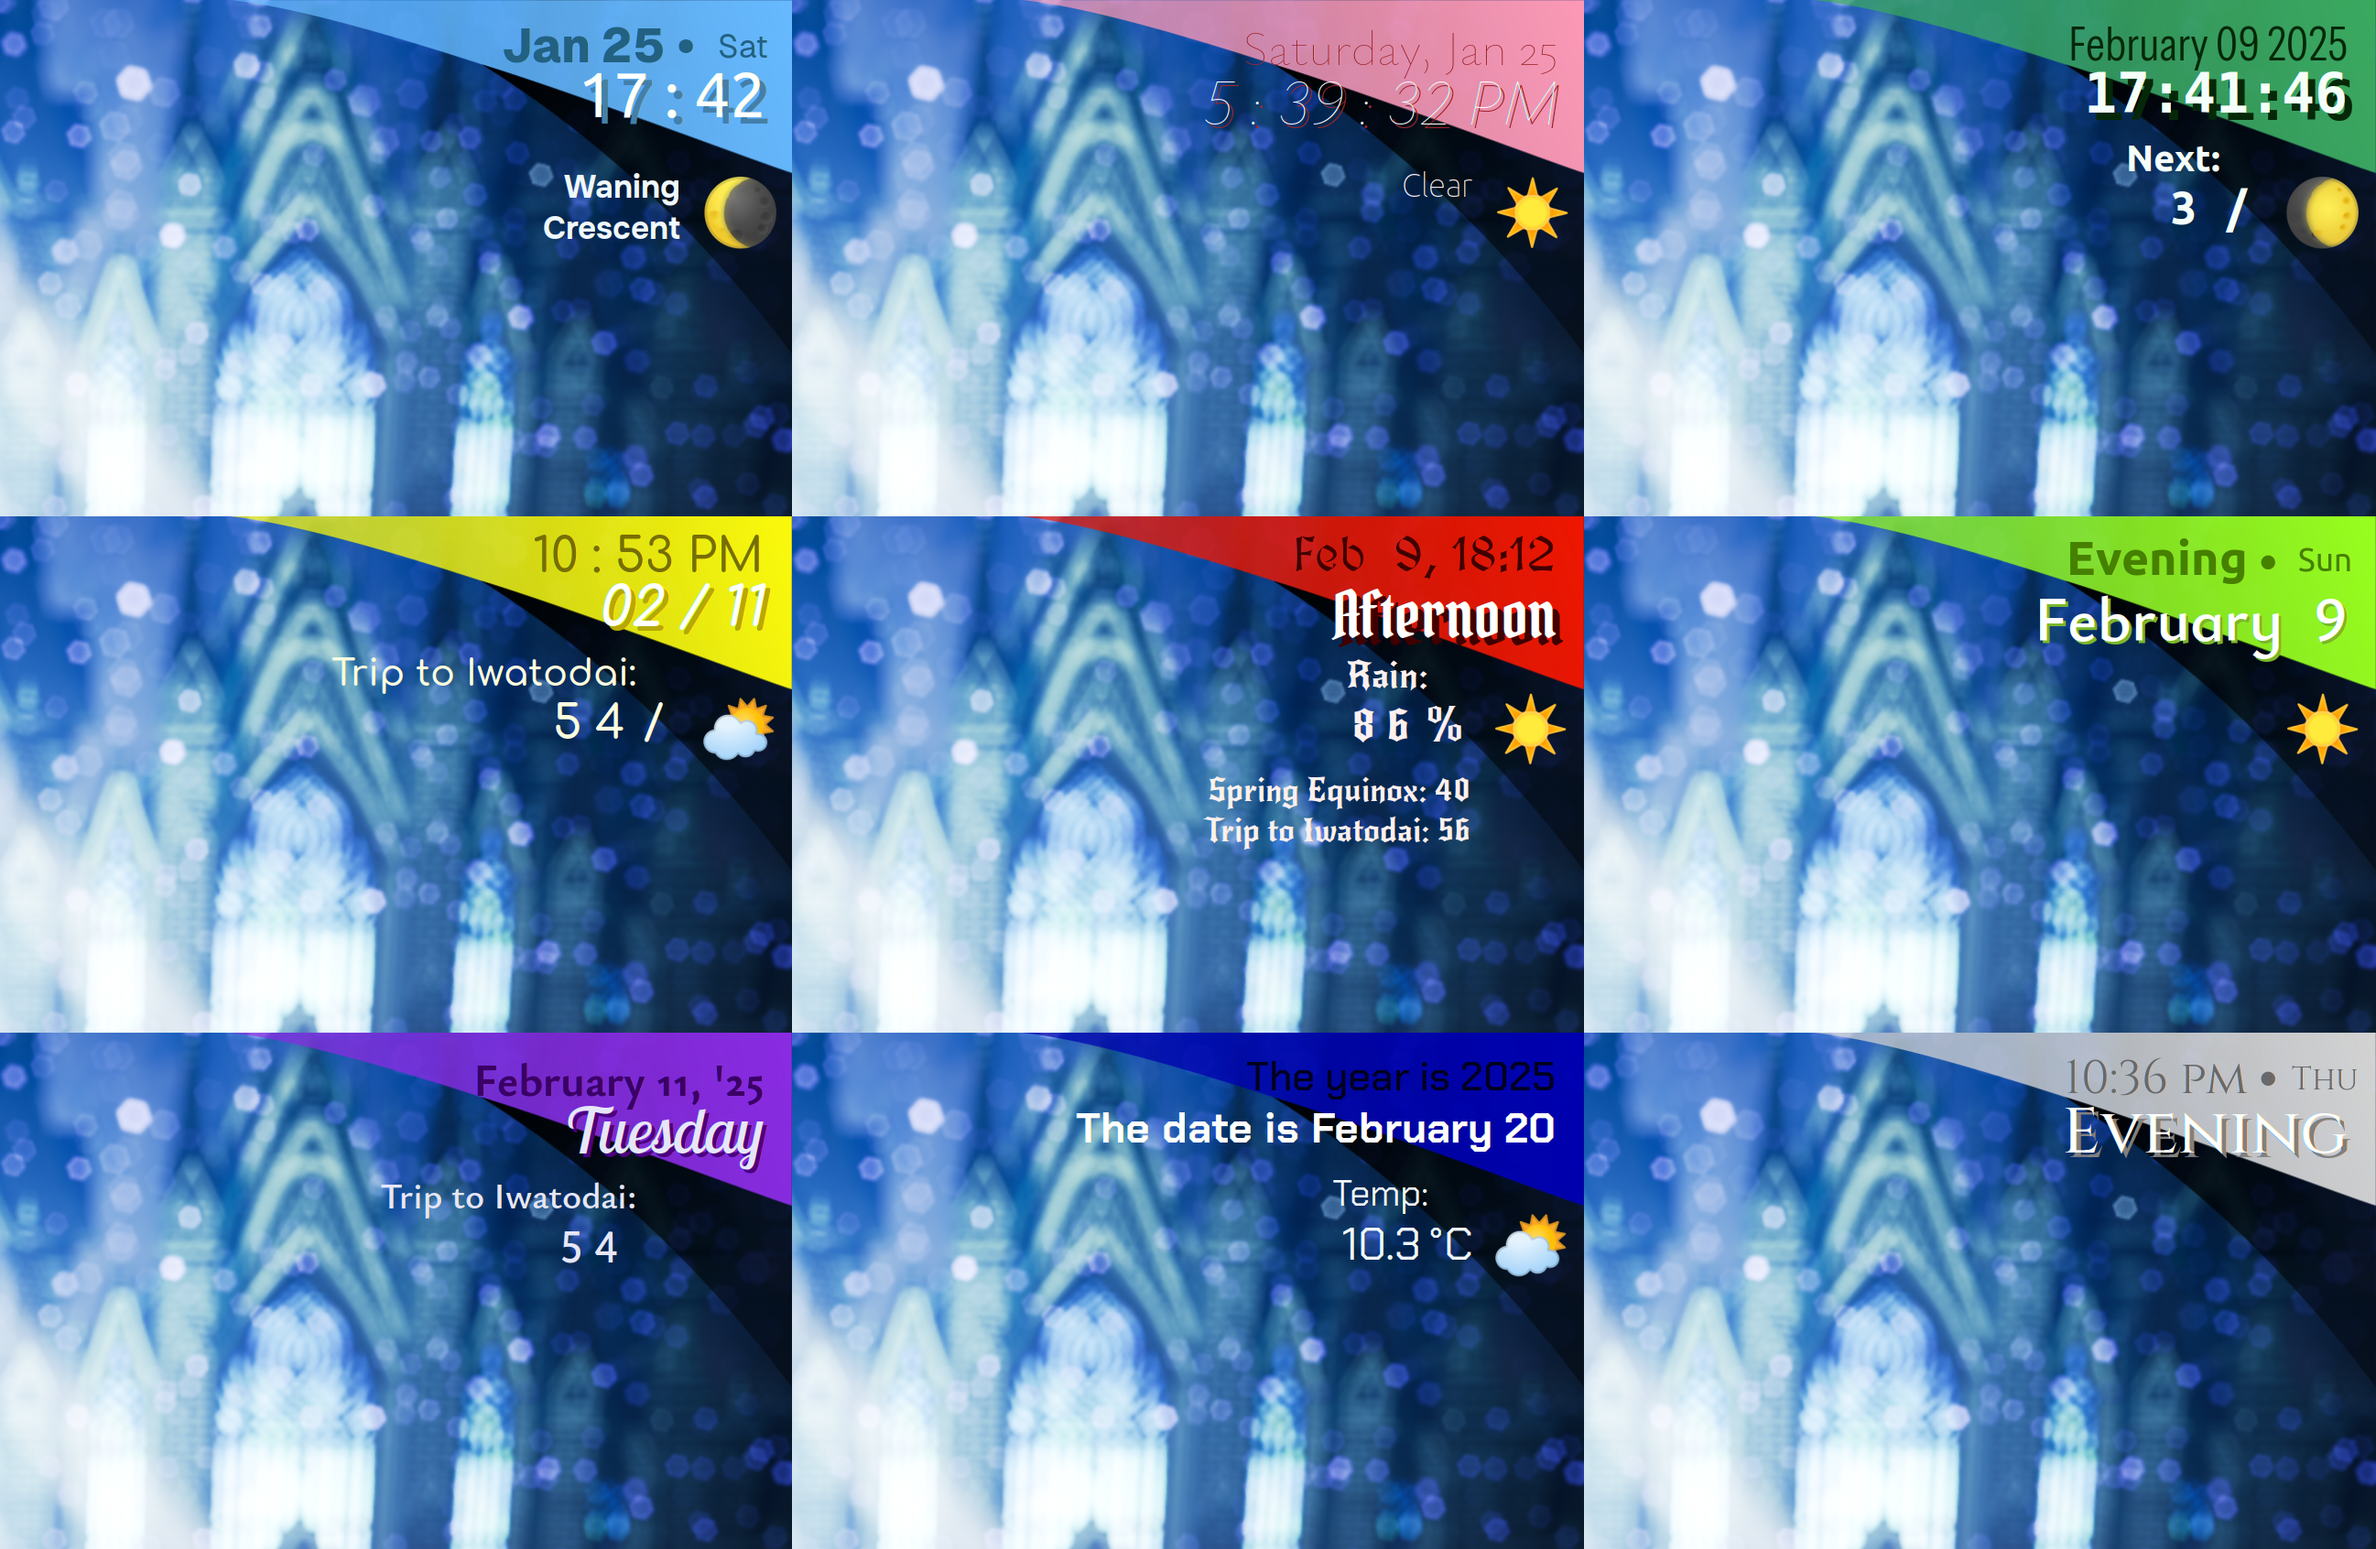
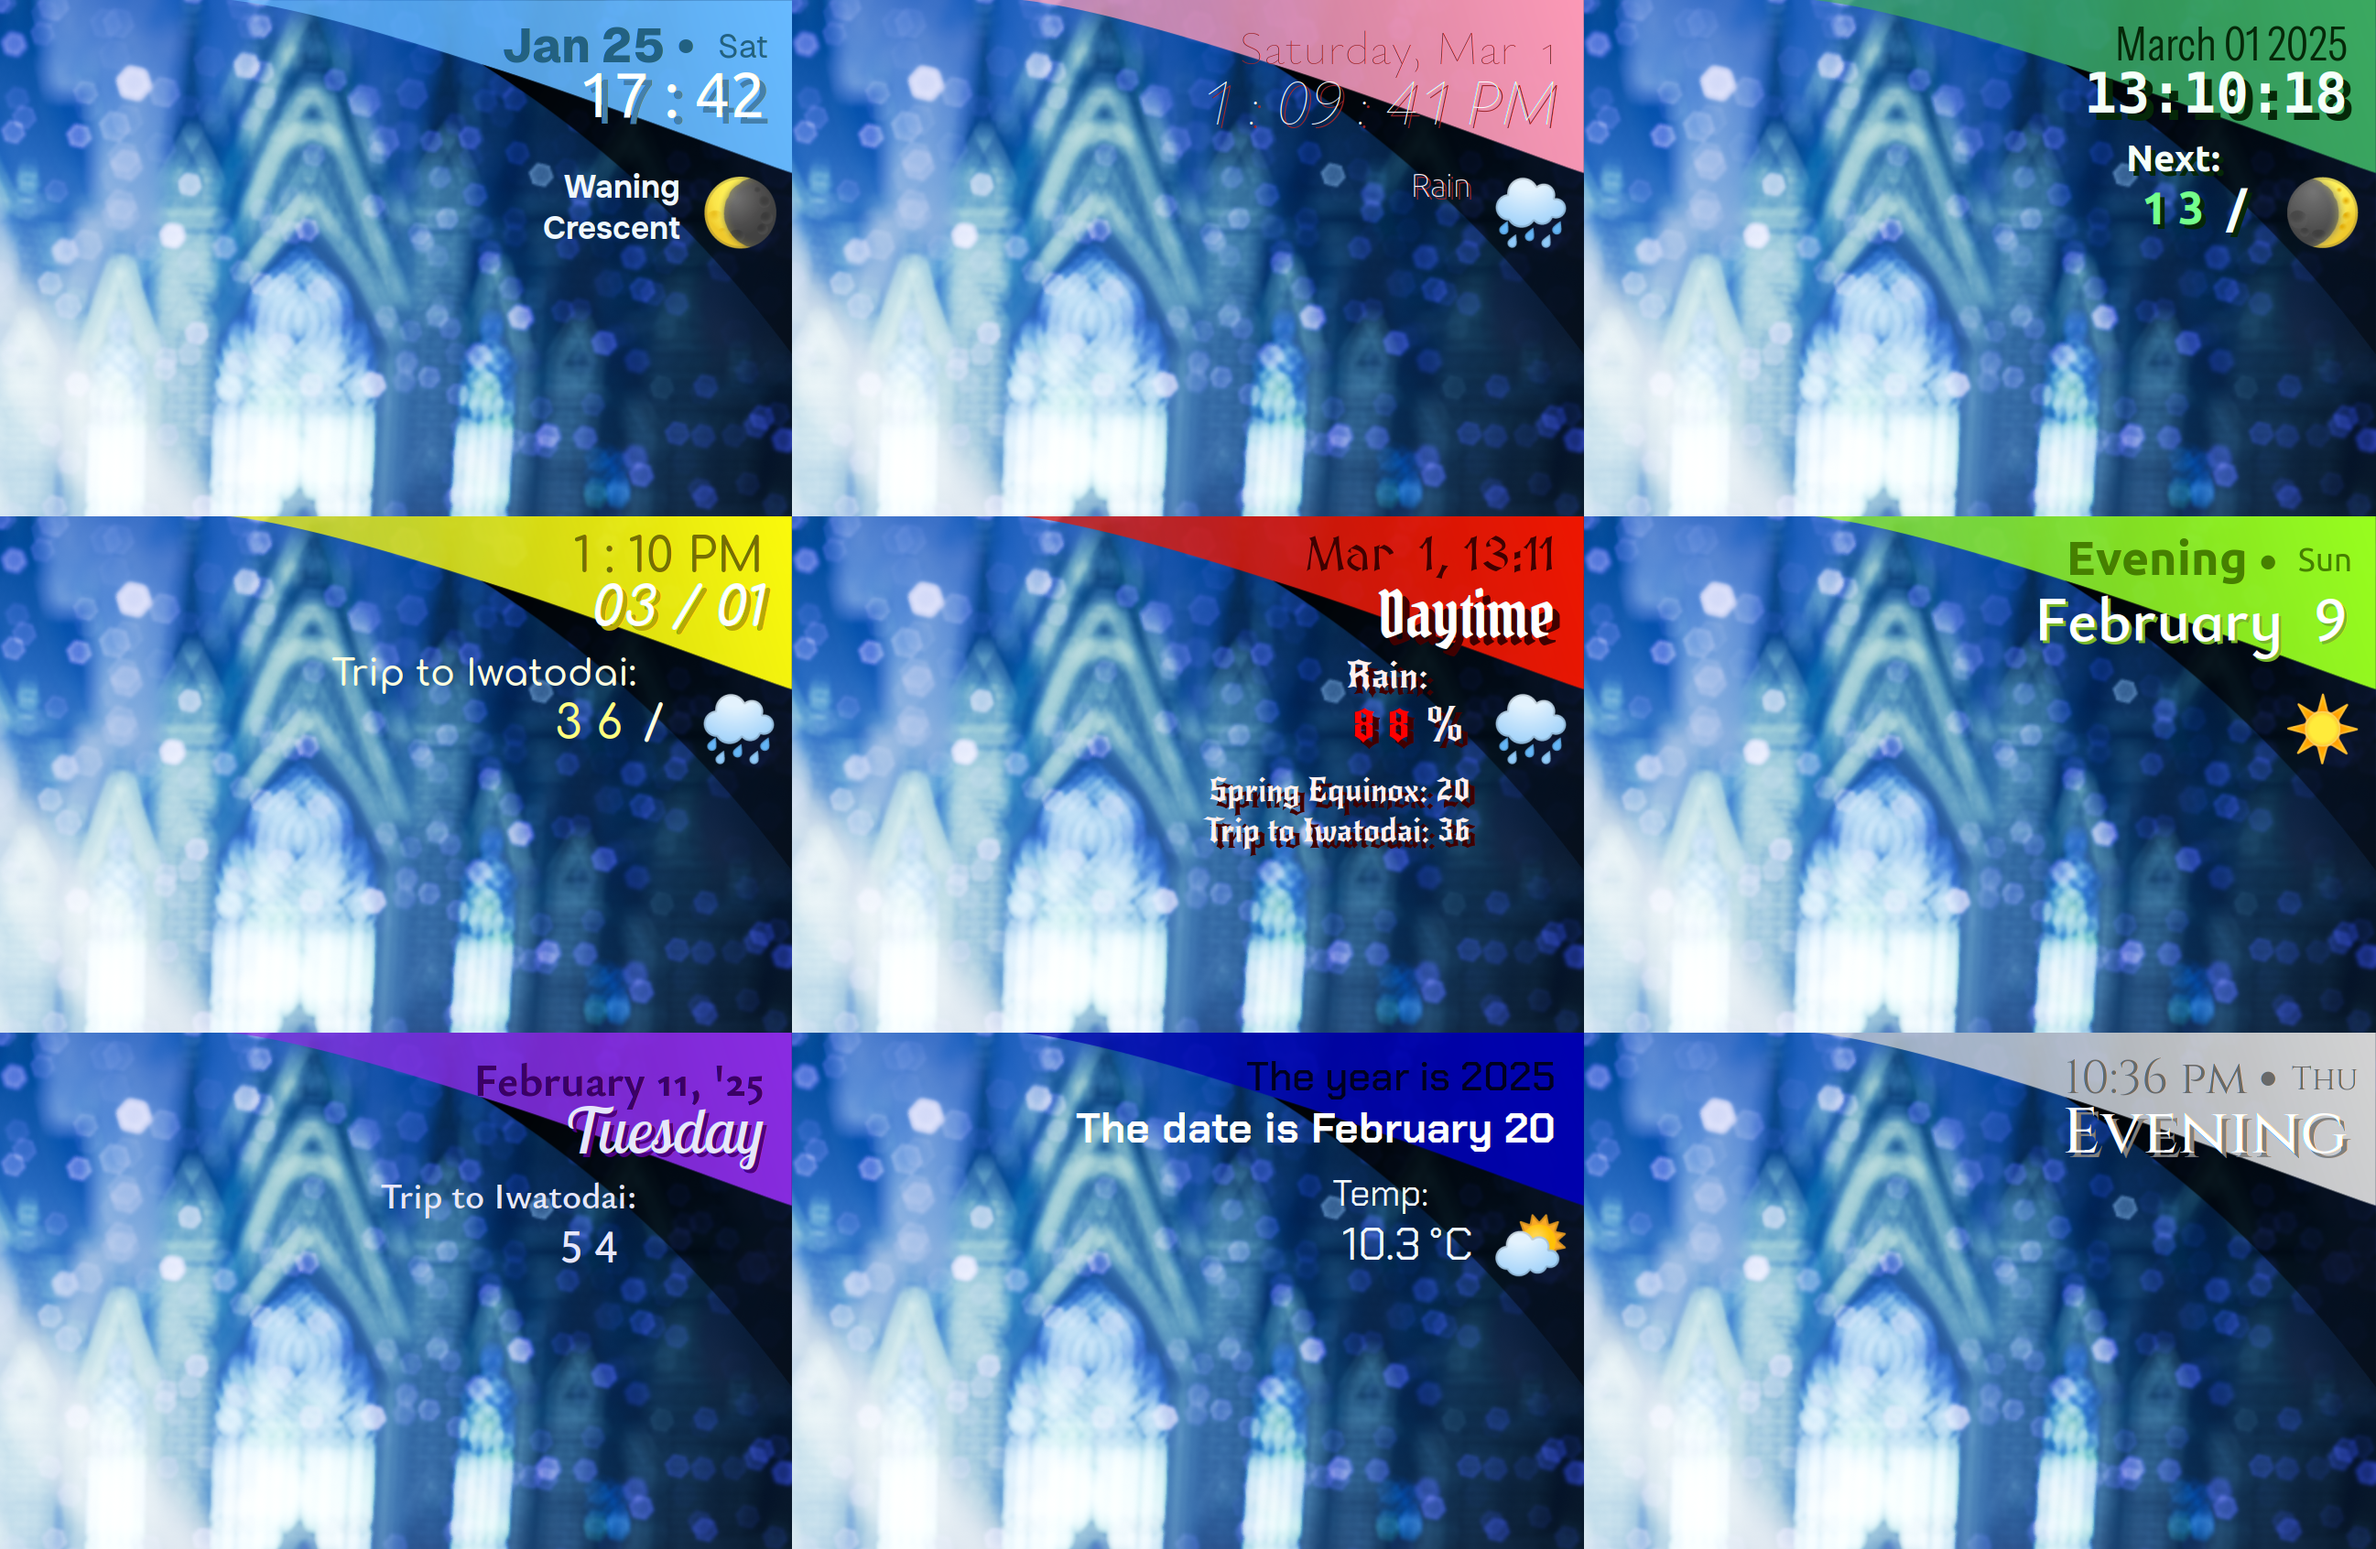
Update screenshot and READMEs

diff --git a/files/p3-clock@torchipeppo/desklet.js b/files/p3-clock@torchipeppo/desklet.js
@@ -39,12 +39,6 @@ else {
 }
 const _ = Translation._;
 
-/*
-    TODO
-    - Rifare un botto di screenshot :(
-    - Aggiornare POT e traduzione
-*/
-
 const SOURCE_DISABLED = 0
 const SOURCE_WEATHERAPI = 1
 const SOURCE_LOCAL_LUNAR_CALENDAR = 2

diff --git a/copy_release_to_desklet_fork_repo.py b/copy_release_to_desklet_fork_repo.py
@@ -51,10 +51,10 @@ def copy_code_dir(src : Path, dst : Path):
 # step 1: files here
 
 src_dir = Path(__file__).resolve().parent
-dst_dir = src_dir.parent / "cinnamon repo forks/cinnamon-spices-desklets" / release_uuid
+dst_dir = src_dir.parent.parent / "cinnamon repo forks/cinnamon-spices-desklets" / release_uuid
 dst_dir.mkdir(exist_ok=True)
 
-shutil.copy(src_dir/"README.md", dst_dir)
+copy_replacing_uuid(src_dir/"README.md", dst_dir/"README.md")
 shutil.copy(src_dir/"info.json", dst_dir)
 
 

diff --git a/files/p3-clock@torchipeppo/po/README.md b/files/p3-clock@torchipeppo/po/README.md
@@ -14,7 +14,7 @@ of the desklet.
 These are the eight standard moon phase names.
 
 ### "New", "Full", "Half"
-These also refer to the Moon and its plases, being simple abbreviations for
+These also refer to the Moon and its phases, being simple abbreviations for
 "New moon" etc., so please make sure the translation reflects this.
 In particular, in the case of most gendered languages, make sure the grammatical
 gender of the translated word matches with that of your word for "Moon".
@@ -24,7 +24,7 @@ if possible.
 
 ## Weather
 
-*Note that, unlike the Moon phasses above, there is no easy way to manipulate*
+*Note that, unlike the Moon phases above, there is no easy way to manipulate*
 *the weather caption, since it comes directly from WeatherAPI.*
 *You can always temporarily hack the source code for testing.*
 
@@ -83,7 +83,7 @@ This message appears twice in very similar forms, but it's not a duplicate:
 their final sentences are actually different.
 
 ### Drop shadow
-Most who read this probably know this already, but "drop shadow" is just
+At the cost of maybe pointing out the obvious, "drop shadow" is just
 the name of the graphical effect. Nothing is being literally let go of
 and falling to the ground. In case of difficulty, please translate as though
 this read "Shadow" or "Text shadow".
@@ -95,8 +95,9 @@ guides the choice of grammatical gender for languages where it matters.
 
 ## Coherence with Cinnamon
 
-A few messages also appear in default applets, desklets and settinsg widgets
-in Cinnamon. It may be best for these translations to align with Cinnamon's for
+A few messages also appear in default applets, desklets and settings widgets
+in Cinnamon, and thus already have "upstream" translations.
+It may be best for the translations in this desklet to align with Cinnamon's for
 the sake of coherence, if possible.
 
 ### "Date and Time Settings"
@@ -111,5 +112,5 @@ For example, Cassia Window List (CassiaWindowList@klangman) uses it multiple tim
 
 ### "Moonlight Clock"
 This is the desklet's name. Feel free to add a little poetic license to the
-to the general meaning of the words to make a name that sounds better than a
+general meaning of the words to make a name that sounds better than a
 literal translation, if you feel so inclined.

diff --git a/README.md b/README.md
@@ -17,8 +17,6 @@ A multipurpose display for current date, time, weather, and/or custom important 
 ## Screenshots
 <!-- TODO must become https://cinnamon-spices.linuxmint.com/git/desklets/<UUID>/<REPO-PATH> -->
 
-<a href="https://github.com/torchipeppo/p3-clock-for-cinnamon/tree/master/custom_compendium">Click here to get any of the shown configurations.</a> All featured fonts are free, and either commonly found by default on Linux Mint machines or available on Google Fonts. 
-
 <p align="center">
 <img src="screenshot.png" align="middle"><br>
 Default look after enabling WeatherAPI. The default font depends on your system configuration.
@@ -26,13 +24,15 @@ Default look after enabling WeatherAPI. The default font depends on your system 
 
 <p align="center">
 <img src="assets/screenshot-customization-showcase.png" align="middle"><br>
-A few example customizations achieavable with the desklet's settings.
+A few example customizations that can be made with the desklet's settings.
 </p>
 
 <p align="center">
 <img src="assets/screenshot-p3-mode.png" align="middle"><br>
 Configuration that replicates the inspiration material as closely as possible.
 </p>
+
+[Click here to get any of the configurations shown above.](https://github.com/torchipeppo/p3-clock-for-cinnamon/tree/master/custom_compendium) All featured fonts are free, and either commonly found by default on Linux Mint machines or available on Google Fonts. 
 
 ## Installation
 Download or clone this repo, then put the `p3-clock@torchipeppo` directory
@@ -44,7 +44,7 @@ data for the moon phases](https://github.com/torchipeppo/p3-clock-for-cinnamon/t
 ### Design goals
 1. Combine the style of the UI from the video game "Persona 3" and
    Linux/Cinnamon conventions into an effectively useful desktop widget
-2. Provide the most value to as many users as possible
+2. Provide value to as many users as possible
 3. Keep the option to stay close to the source material, wherever this doesn't
    conflict with the above points
 

diff --git a/custom_compendium/README.md b/custom_compendium/README.md
@@ -17,13 +17,13 @@ The themes featured in the grid screenshot in the main README are available
 for download here, in case any of them strike anyone's interest as they are
 or as a starting point.
 
-As a whole, they are meant to show off the different features and the potential
+As a whole, they are meant to showcase the different features and the potential
 of this desklet.
 
 All the fonts used in these are found on Google Fonts (even Ubuntu, in case
 it's not already installed), except for Monospace Bold (green.json),
-which, as the generic monospace font installed on the author's machine,
-is easily replaceable by any other generic monospace font.
+which, as the generic monospace font installed by default on the author's
+machine, is easily replaceable by any other generic monospace font.
 
 ### persona3.json
 
@@ -31,7 +31,7 @@ The closest reproduction of the HUD from the game "Persona 3" that OFL fonts
 and standard emoji allow, referencing the inspiration of this whole endavor.
 
 You may also be interested in one of the first three color schemes:
-"Blue", "Pink" and "Green".
+"Blue", "Pink" and "Green", as well as potentially activating the bottom shadow.
 
 Instrument Sans, Onest and Geist are available on Google Fonts.
 Onest and Geist can be used in place of each other if you want

diff --git a/lunar_calendar_generation/README.md b/lunar_calendar_generation/README.md
@@ -29,7 +29,7 @@ the shortest-term ephemeris table from among those published by the
 NASA Jet Propulsion Laboratory, which **weighs about 32 MB**
 and allows to calculate moon phases in the **year range 2000-2148**.
 The ephemeris file will be stored in the same directory you run the script from,
-so you may reuse them again.
+so you may reuse it again.
 For more information and to select a different ephemeris table,
 see around the beginning of the script.
 
@@ -40,7 +40,7 @@ and put the generated data there, inside a directory called `local_lunar_calenda
 ## How to run
 
 Start by creating a Python virtual environment and installing the `skyfield`
-library, which is geared for high-precision astronomical calculations:
+library:
 ```bash
 python3 -m venv venv
 source venv/bin/activate
